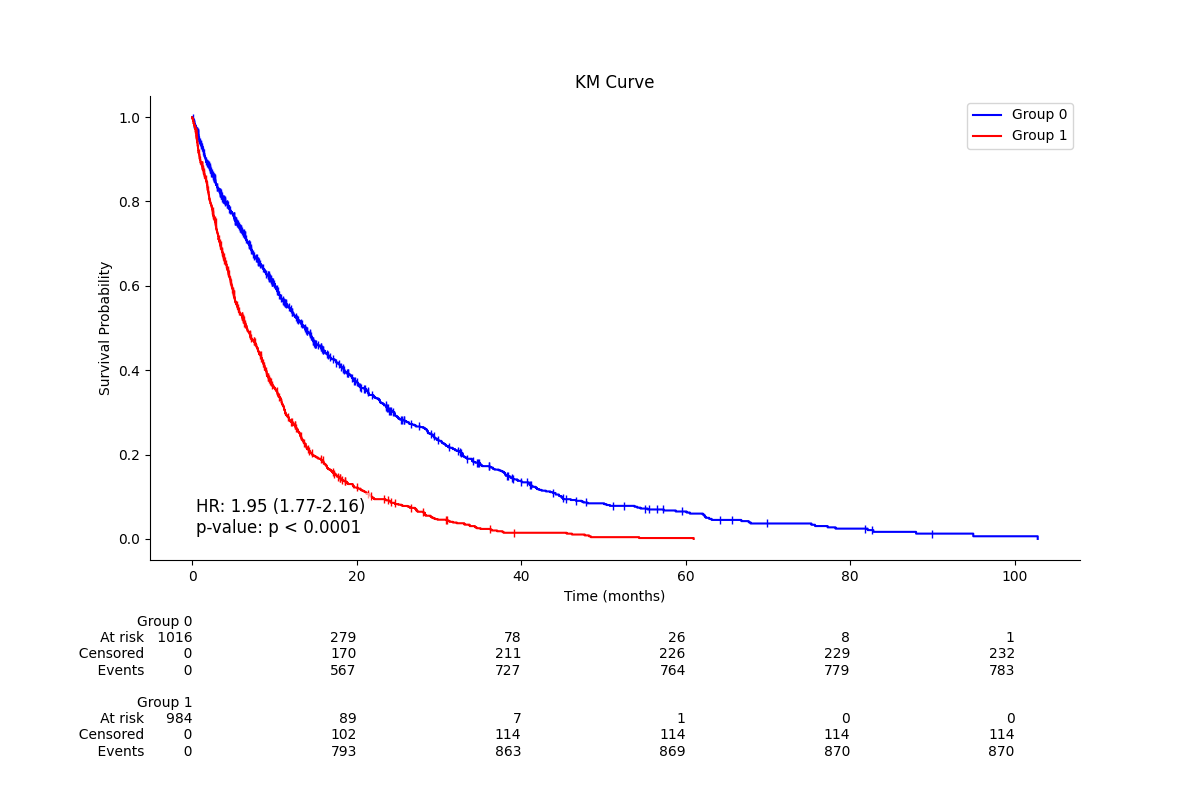
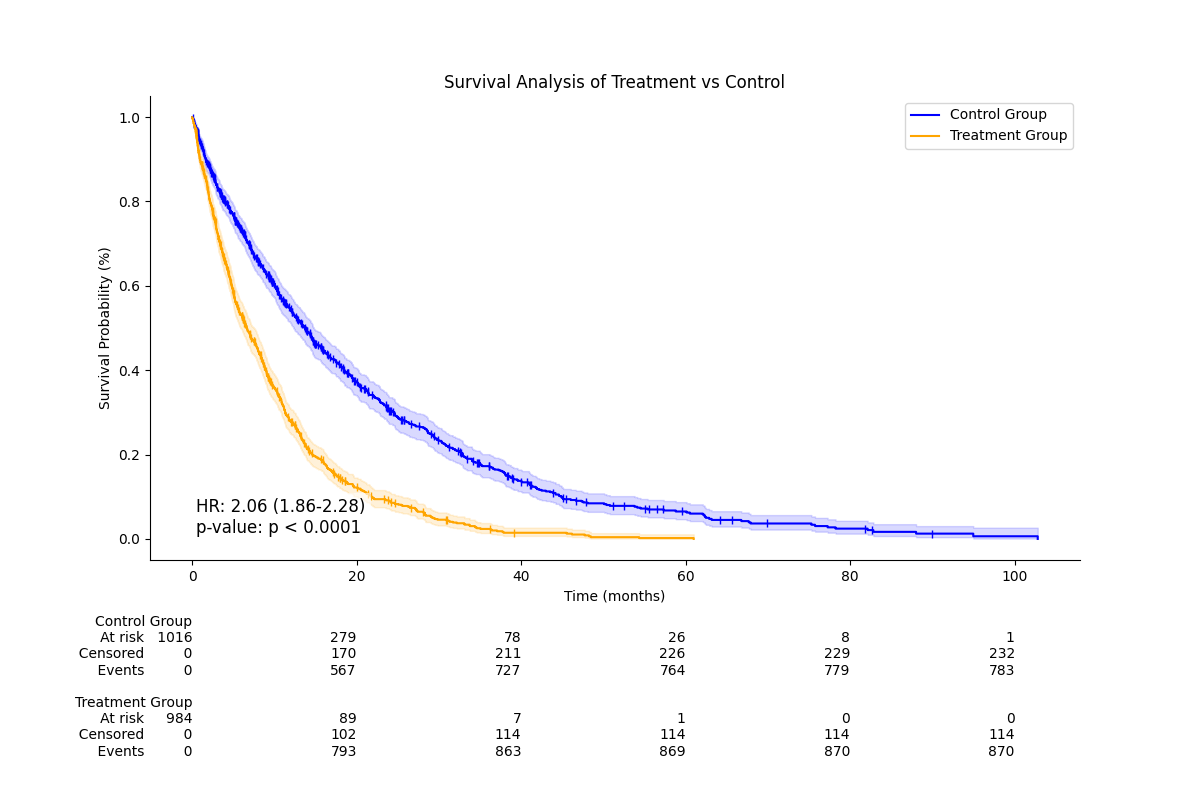
Updated ReadMe

diff --git a/README.md b/README.md
@@ -10,6 +10,7 @@ PySurv is a Python package for generating and plotting Kaplan-Meier survival cur
 - Calculate hazard ratios (HR) with 95% confidence intervals using Cox PH (default) or Mantel-Haenszel method
 - Option to show or hide confidence intervals (CI) for KM curves
 - Flexible plotting with customizable styles, colors, and labels
+- Generate synthetic time-to-event data by specifying hazard ratio and censoring rate.
 
 ## Installation
 
@@ -26,47 +27,13 @@ Make sure you have the following dependencies installed:
 ```
 These will be installed automatically when you install PySurv using pip.
 
-## Quick Start
+## Usage
 
-### 1. Importing and Generating Data
-
-First, you need to generate some synthetic time-to-event data. You can do this using the generate_time_to_event_data function, which simulates a dataset with a specified hazard ratio and censoring rate.
+Here’s a detailed example of how to use PySurv for generating data, plotting KM curves, and customizing the output:
 ```
 import pysurv
 
-# Generate synthetic survival data
-data = pysurv.generate_time_to_event_data(n_samples=2000, hazard_ratio=2.0, censoring_rate=0.3)
-```
-### 2. Plotting Kaplan-Meier Curves
-
-Once you have the data, you can easily plot Kaplan-Meier survival curves using the plot_km_curve function:
-```
-pysurv.plot_km_curve(
-    data, 
-    method='cox', 
-    title="KM Curve Example", 
-    show_ci=False
-)
-```
-
-### 3. Perform Mantel-Haenszel Test
-
-You can also directly perform the Mantel-Haenszel test to get a hazard ratio (HR) and p-value, along with a confidence interval:
-```
-chi2_stat, p_value, hr, ci_lower, ci_upper = pysurv.mantel_haenszel_test(data)
-
-print(f"Chi-Square Statistic: {chi2_stat}")
-print(f"P-Value: {p_value}")
-print(f"Hazard Ratio: {hr} (95% CI: {ci_lower} - {ci_upper})")
-```
-
-## Full Example
-
-Here’s a more detailed example of how to use PySurv for generating data, plotting KM curves, and customizing the output:
-```
-import pysurv
-
-# Generate data
+# Generate synthetic data
 data = pysurv.generate_time_to_event_data(n_samples=2000, hazard_ratio=2.0, censoring_rate=0.3)
 
 # Plot Kaplan-Meier curve with custom labels and colors
